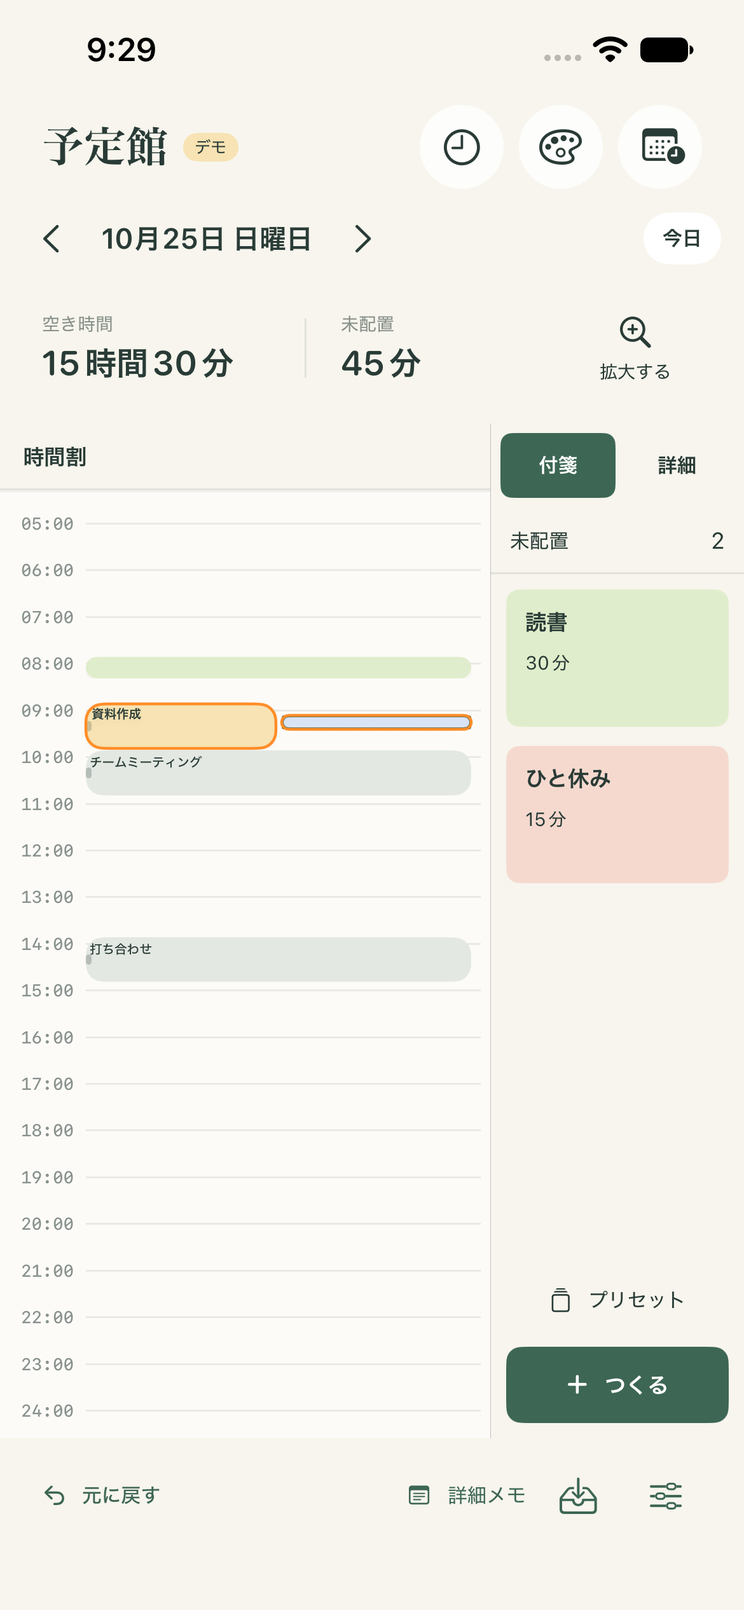
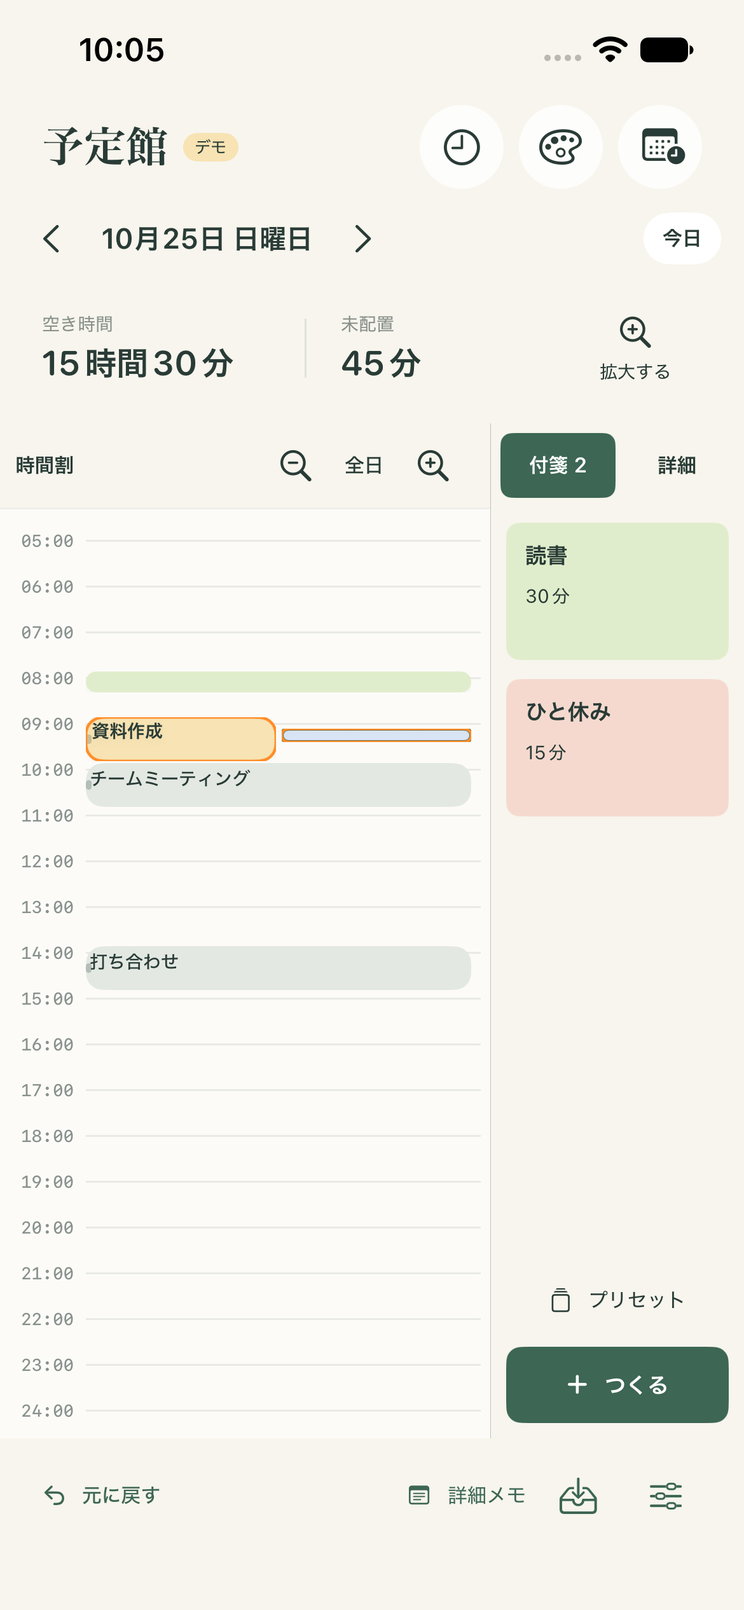
Add timeline zoom and keep short events within their time slots

diff --git a/ios/Yoteikan/PlannerView.swift b/ios/Yoteikan/PlannerView.swift
@@ -1,6 +1,11 @@
 import SwiftUI
 import UniformTypeIdentifiers
 
+private struct HourPositions: PreferenceKey {
+    static var defaultValue: [Int: CGFloat] = [:]
+    static func reduce(value: inout [Int: CGFloat], nextValue: () -> [Int: CGFloat]) { value.merge(nextValue(), uniquingKeysWith: { _, new in new }) }
+}
+
 struct PlannerView: View {
     @EnvironmentObject private var plans: PlanStore
     @EnvironmentObject private var calendar: CalendarStore
@@ -13,6 +18,11 @@ struct PlannerView: View {
     @State private var editing: Sticky?
     @State private var selected: UUID?
     @State private var overview = false
+    @State private var zoomLevel = 0
+    @State private var visibleHour: Int?
+    @State private var zoomAnchor = 8
+    @State private var viewportTop: CGFloat = 0
+    private let zoomSteps: [CGFloat] = [1, 2, 4, 8]
     @State private var dropActive = false
     @State private var moving: UUID?
     @State private var shift: CGFloat = 0
@@ -28,9 +38,14 @@ struct PlannerView: View {
     @State private var memoDrafts: [UUID: String] = [:]
     @FocusState private var memoFocused: Bool
     private var selectedTask: Sticky? { plans.today.first { $0.id == selected } }
-    private var scale: CGFloat { overview ? max(0.15, (viewportHeight - 32) / CGFloat(plans.hours.totalMinutes)) : 1.55 }
+    private var scale: CGFloat { overview ? max(0.15, (viewportHeight - 32) / CGFloat(plans.hours.totalMinutes)) : 1.55 * zoomSteps[zoomLevel] }
     private var fixed: [FixedEvent] {
         if plans.demo, dayKey(plans.date) == dayKey(Date()) {
+            #if DEBUG && targetEnvironment(simulator)
+            if ProcessInfo.processInfo.arguments.contains("--short-events-test") {
+                return [FixedEvent(id: "short1", title: "会議5分", start: 495, end: 500), FixedEvent(id: "short2", title: "連絡5分", start: 500, end: 505)]
+            }
+            #endif
             return [FixedEvent(id: "demo1", title: "チームミーティング", start: 600, end: 660), FixedEvent(id: "demo2", title: "打ち合わせ", start: 840, end: 900)]
         }
         return calendar.events
@@ -65,7 +80,7 @@ struct PlannerView: View {
                 ScrollView(.horizontal, showsIndicators: false) { HStack { ForEach(fixed.filter(\.allDay)) { event in Label(event.title, systemImage: "sun.max").font(.caption2).padding(7).background(.white.opacity(0.6), in: Capsule()) } }.padding(.horizontal, 20) }
             }
             HStack(spacing: 0) {
-                VStack(spacing: 0) { zoneTitle("時間割"); timeline }
+                VStack(spacing: 0) { zoomControls; timeline }
                     .accessibilityElement(children: .contain).accessibilityIdentifier("scheduleZone")
                 if wide && !sideShowsDetails {
                     Divider()
@@ -216,6 +231,25 @@ struct PlannerView: View {
     private func stat(_ title: String, _ value: String, compact: Bool) -> some View {
         VStack(alignment: .leading, spacing: compact ? 2 : 4) { Text(title).font(.system(size: compact ? 9 : 10)).foregroundStyle(ink.opacity(0.55)); Text(value).font(.system(size: compact ? 15 : 18, weight: .semibold, design: .rounded)) }.frame(maxWidth: .infinity, alignment: .leading).padding(.leading, title == "未配置" ? 18 : 0)
     }
+    private var zoomControls: some View {
+        HStack(spacing: 0) {
+            Text("時間割").font(.system(size: 11, weight: .semibold))
+            Spacer(minLength: 0)
+            Button { zoomAnchor = selectedTask?.start.map { $0 / 60 } ?? visibleHour ?? initialHour; zoomLevel -= 1 } label: {
+                Image(systemName: "minus.magnifyingglass").frame(width: 44, height: 44)
+            }.disabled(overview || zoomLevel == 0).accessibilityLabel("時間割を縮小").accessibilityIdentifier("zoomOut")
+            Text(overview ? "全日" : "\(Int(zoomSteps[zoomLevel]))倍")
+                .font(.system(size: 11, weight: .medium)).frame(width: 28)
+                .accessibilityIdentifier("zoomLevel")
+            Button { if overview { overview = false } else { zoomAnchor = selectedTask?.start.map { $0 / 60 } ?? visibleHour ?? initialHour; zoomLevel += 1 } } label: {
+                Image(systemName: "plus.magnifyingglass").frame(width: 44, height: 44)
+            }.disabled(!overview && zoomLevel == zoomSteps.count - 1).accessibilityLabel("時間割を拡大").accessibilityIdentifier("zoomIn")
+        }.padding(.horizontal, 8)
+    }
+    private func cardHeight(_ minutes: Int) -> CGFloat {
+        let slot = CGFloat(minutes) * scale
+        return max(0, slot - min(overview ? 1 : 4, slot * 0.25))
+    }
     private var timeline: some View {
         ScrollViewReader { reader in
             ScrollView(.vertical) {
@@ -223,14 +257,30 @@ struct PlannerView: View {
                     ZStack(alignment: .topLeading) {
                         VStack(spacing: 0) {
                         ForEach((plans.hours.start / 60)...(plans.hours.end / 60), id: \.self) { hour in
-                            HStack(alignment: .center, spacing: 6) { Text(String(format: "%02d:00", hour)).font(.system(size: 9, weight: .medium, design: .monospaced)).foregroundStyle(ink.opacity(0.55)).frame(width: 34, alignment: .trailing); Rectangle().fill(ink.opacity(0.09)).frame(height: 1) }.frame(height: 60 * scale, alignment: .top).id(hour)
+                            ZStack(alignment: .topLeading) {
+                                HStack(spacing: 6) { Text(String(format: "%02d:00", hour)).font(.system(size: 9, weight: .medium, design: .monospaced)).foregroundStyle(ink.opacity(0.55)).frame(width: 34, alignment: .trailing); Rectangle().fill(ink.opacity(0.09)).frame(height: 1) }
+                                if !overview && zoomLevel >= 2 && hour < plans.hours.end / 60 {
+                                    ForEach(1..<12) { step in
+                                        HStack(spacing: 6) {
+                                            Text(String(format: ":%02d", step * 5)).font(.system(size: 8, design: .monospaced)).frame(width: 34, alignment: .trailing)
+                                            Rectangle().frame(height: 0.5)
+                                        }.foregroundStyle(ink.opacity(0.22)).offset(y: CGFloat(step * 5) * scale)
+                                    }
+                                }
+                            }.frame(height: 60 * scale, alignment: .top).id("hour-\(hour)")
+                                .background { GeometryReader { proxy in Color.clear.preference(key: HourPositions.self, value: [hour: proxy.frame(in: .global).minY]) } }
                         }
                         }.contentShape(Rectangle()).simultaneousGesture(daySwipeGesture)
                         ForEach(visibleFixed) { event in
                             let start = max(plans.hours.start, event.start)
                             let slot = slots["fixed-" + event.id] ?? TimelineSlot(column: 0, columns: 1)
                             let width = (geometry.size.width - 42) / CGFloat(slot.columns)
-                            fixedCard(event).frame(width: width - 3, height: max(overview ? 3 : 20, CGFloat(min(event.end, plans.hours.end) - start) * scale - (overview ? 1 : 4))).offset(x: 40 + width * CGFloat(slot.column), y: CGFloat(start - plans.hours.start) * scale + 2)
+                            let height = cardHeight(min(event.end, plans.hours.end) - start)
+                            fixedCard(event, height: height).frame(width: width - 3, height: height).clipped()
+                                .accessibilityElement(children: .ignore)
+                                .accessibilityLabel("\(event.title)、\(clockText(event.start))から\(clockText(event.end))、カレンダーの固定予定")
+                                .accessibilityIdentifier("fixed-\(event.title)")
+                                .offset(x: 40 + width * CGFloat(slot.column), y: CGFloat(start - plans.hours.start) * scale + 2)
                         }
                         ForEach(placed) { task in
                             let visibleStart = max(task.start!, plans.hours.start)
@@ -239,14 +289,16 @@ struct PlannerView: View {
                             let slot = slots[task.id.uuidString] ?? TimelineSlot(column: 0, columns: 1)
                             let slotCount = slot.columns
                             let width = (geometry.size.width - 42) / CGFloat(slotCount)
-                            taskCard(task, compact: overview || slotCount > 1)
-                                .frame(width: width - 3, height: max(overview ? 3 : 24, CGFloat(visibleEnd - visibleStart) * scale - (overview ? 1 : 4) + (stretching == task.id ? stretch : 0)))
+                            let height = max(0, cardHeight(visibleEnd - visibleStart) + (stretching == task.id ? stretch : 0))
+                            taskCard(task, compact: overview || slotCount > 1, height: height)
+                                .frame(width: width - 3, height: height)
                                 .overlay { if collision { RoundedRectangle(cornerRadius: 9).stroke(.orange, lineWidth: 1.5).allowsHitTesting(false) } }
-                                .overlay(alignment: .bottom) { if !overview { resizeHandle(task) } }
+                                .overlay(alignment: .bottom) { if !overview && (height >= 54 || stretching == task.id) { resizeHandle(task) } }
                                 .contentShape(Rectangle())
                                 .overlay(alignment: .topTrailing) {
-                                    if selected == task.id && !overview { moveHandle(task).padding(3) }
+                                    if selected == task.id && !overview && height >= 32 { moveHandle(task).padding(3) }
                                 }
+                                .clipped()
                                 .overlay(alignment: .top) {
                                     if moving == task.id && !returningToInbox {
                                         let start = task.start! + PlannerMath.snap(Double(shift / scale))
@@ -276,41 +328,54 @@ struct PlannerView: View {
                     } isTargeted: { dropActive = $0 }
                     .background(dropActive ? accent.opacity(0.05) : Color.clear)
                 }.frame(height: CGFloat(plans.hours.end - plans.hours.start) * scale + 18).padding(.top, 12).padding(.horizontal, 5)
-            }.accessibilityIdentifier("timeline")
-                .task { await Task.yield(); reader.scrollTo(initialHour, anchor: .top) }
-                .onChange(of: overview) { _, value in reader.scrollTo(value ? plans.hours.start / 60 : initialHour, anchor: .top) }
-                .onChange(of: plans.date) { _, _ in reader.scrollTo(overview ? plans.hours.start / 60 : initialHour, anchor: .top) }
+            }.coordinateSpace(name: "timelineViewport").accessibilityIdentifier("timeline")
+                .onPreferenceChange(HourPositions.self) { positions in
+                    visibleHour = positions.filter { $0.value <= viewportTop + 16 }.max(by: { $0.value < $1.value })?.key ?? initialHour
+                }
+                .task { await Task.yield(); reader.scrollTo("hour-\(initialHour)", anchor: .top) }
+                .onChange(of: zoomLevel) { _, _ in
+                    Task { @MainActor in
+                        await Task.yield()
+                        reader.scrollTo("hour-\(zoomAnchor)", anchor: .top)
+                    }
+                }
+                .onChange(of: overview) { _, value in reader.scrollTo("hour-\(value ? plans.hours.start / 60 : initialHour)", anchor: .top) }
+                .onChange(of: plans.date) { _, _ in reader.scrollTo("hour-\(overview ? plans.hours.start / 60 : initialHour)", anchor: .top) }
                 .onChange(of: plans.hours) { _, _ in
                     selected = nil; moving = nil; stretching = nil; shift = 0; stretch = 0
-                    reader.scrollTo(overview ? plans.hours.start / 60 : initialHour, anchor: .top)
+                    reader.scrollTo("hour-\(overview ? plans.hours.start / 60 : initialHour)", anchor: .top)
                 }
         }
         .background(.white.opacity(0.62))
-        .background { GeometryReader { proxy in Color.clear.onAppear { viewportHeight = proxy.size.height }.onChange(of: proxy.size.height) { _, height in viewportHeight = height } } }
+        .background { GeometryReader { proxy in Color.clear.onAppear { viewportHeight = proxy.size.height; viewportTop = proxy.frame(in: .global).minY }.onChange(of: proxy.size) { _, size in viewportHeight = size.height; viewportTop = proxy.frame(in: .global).minY } } }
         .overlay(alignment: .top) { Rectangle().fill(ink.opacity(0.06)).frame(height: 1) }
     }
-    private func fixedCard(_ event: FixedEvent) -> some View {
+    private func fixedCard(_ event: FixedEvent, height: CGFloat) -> some View {
         VStack(alignment: .leading, spacing: overview ? 0 : 5) {
-            if overview { Text(event.title).font(.system(size: 7, weight: .medium)).lineLimit(1) }
+            if height < 44 {
+                if height >= 14 { Text(event.title).font(.system(size: 10, weight: .medium)).lineLimit(1) }
+            } else if overview { Text(event.title).font(.system(size: 7, weight: .medium)).lineLimit(1) }
             else { HStack { Image(systemName: "lock.fill").font(.system(size: 9)); Text("\(clockText(event.start)) – \(clockText(event.end))").font(.system(size: 10, weight: .medium)); Spacer(minLength: 0) }.foregroundStyle(ink.opacity(0.55))
             if !overview { Text(event.title).font(.system(size: 13, weight: .medium)).lineLimit(2) }
             Spacer(minLength: 0)
             }
-        }.padding(overview ? 2 : 10).frame(maxWidth: .infinity, maxHeight: .infinity, alignment: .topLeading).background(Color(red: 0.89, green: 0.91, blue: 0.89), in: RoundedRectangle(cornerRadius: 9)).overlay(alignment: .leading) { RoundedRectangle(cornerRadius: 2).fill(ink.opacity(0.25)).frame(width: 3).padding(.vertical, 9) }.clipped().accessibilityElement(children: .ignore).accessibilityLabel("\(event.title)、\(clockText(event.start))から\(clockText(event.end))、カレンダーの固定予定").accessibilityIdentifier("fixed-\(event.title)")
+        }.padding(height < 44 ? min(height / 2, 2) : 10).frame(maxWidth: .infinity, maxHeight: .infinity, alignment: .topLeading).background(Color(red: 0.89, green: 0.91, blue: 0.89), in: RoundedRectangle(cornerRadius: 9)).overlay(alignment: .leading) { RoundedRectangle(cornerRadius: 2).fill(ink.opacity(0.25)).frame(width: 3).padding(.vertical, 9) }.clipped()
     }
-    private func taskCard(_ task: Sticky, compact: Bool) -> some View {
+    private func taskCard(_ task: Sticky, compact: Bool, height: CGFloat) -> some View {
         let textColor = plans.paletteColor(for: task.tone).textColor
         let start = (task.start ?? 0) + (moving == task.id ? PlannerMath.snap(Double(shift / scale)) : 0)
         let duration = task.minutes + (stretching == task.id ? PlannerMath.snap(Double(stretch / scale)) : 0)
         return VStack(alignment: .leading, spacing: 4) {
-            if overview {
+            if height < 44 {
+                if height >= 14 { Text(task.title).font(.system(size: 10, weight: .semibold)).lineLimit(1) }
+            } else if overview {
                 if duration >= 45 { Text(task.title).font(.system(size: 7, weight: .semibold)).lineLimit(1) }
             } else {
             if !compact { Text("\(clockText(start)) – \(clockText(start + duration))").font(.system(size: 10, weight: .medium)).foregroundStyle(textColor.opacity(0.8)) }
             HStack(spacing: 4) { Text(task.title).font(.system(size: compact ? 10 : 12, weight: .semibold)).lineLimit(2); Spacer(minLength: 0); if compact { Text("\(duration)分").font(.system(size: 9)) } }.padding(.trailing, selected == task.id ? 29 : 0)
             Spacer(minLength: 0)
             }
-        }.padding(.horizontal, overview ? 3 : 7).padding(.top, overview ? 1 : (compact ? 5 : 7)).frame(maxWidth: .infinity, maxHeight: .infinity, alignment: .topLeading)
+        }.padding(.horizontal, overview ? 3 : 7).padding(.top, height < 44 ? 1 : (compact ? 5 : 7)).frame(maxWidth: .infinity, maxHeight: .infinity, alignment: .topLeading)
             .foregroundStyle(textColor)
             .background(plans.paletteColor(for: task.tone).color, in: RoundedRectangle(cornerRadius: 9))
             .overlay(alignment: .leading) { RoundedRectangle(cornerRadius: 2).fill(ink.opacity(0.22)).frame(width: 3).padding(.vertical, 9) }

diff --git a/docs/screenshots/index.html b/docs/screenshots/index.html
@@ -1,1 +1,1 @@
-<!doctype html><html lang="ja"><meta charset="utf-8"><meta name="viewport" content="width=device-width,initial-scale=1"><title>予定館・実機能確認</title><style>body{background:#f7f5ed;color:#293b35;font:15px system-ui;margin:32px}h1{font-size:24px}.grid{display:grid;grid-template-columns:repeat(auto-fit,minmax(240px,1fr));gap:28px}figure{margin:0}img{width:100%;max-width:390px;border-radius:24px;box-shadow:0 8px 32px #293b3520}figcaption{margin:12px 0 20px}p{line-height:1.8}</style><h1>予定館 / シミュレーター動作確認</h1><p>iPhone 17e・iOS 27。XCTestで実際に操作した画面です。デモ表記のある画面はサンプル予定、カレンダー画面はシミュレーターのEventKitに登録した検証用予定を使用しています。</p><div class="grid"><figure><a href="01-day-planner.png"><img src="01-day-planner.png" alt="01-day-planner"></a><figcaption>01-day-planner</figcaption></figure><figure><a href="02-presets.png"><img src="02-presets.png" alt="02-presets"></a><figcaption>02-presets</figcaption></figure><figure><a href="03-sticky-editor.png"><img src="03-sticky-editor.png" alt="03-sticky-editor"></a><figcaption>03-sticky-editor</figcaption></figure><figure><a href="04-overlap-after-drag.png"><img src="04-overlap-after-drag.png" alt="04-overlap-after-drag"></a><figcaption>04-overlap-after-drag</figcaption></figure><figure><a href="05-resize-overlap.png"><img src="05-resize-overlap.png" alt="05-resize-overlap"></a><figcaption>05-resize-overlap</figcaption></figure><figure><a href="06-day-overview.png"><img src="06-day-overview.png" alt="06-day-overview"></a><figcaption>06-day-overview</figcaption></figure><figure><a href="07-calendar-settings.png"><img src="07-calendar-settings.png" alt="07-calendar-settings"></a><figcaption>07-calendar-settings</figcaption></figure><figure><a href="08-real-calendar-events.png"><img src="08-real-calendar-events.png" alt="08-real-calendar-events"></a><figcaption>08-real-calendar-events</figcaption></figure><figure><a href="09-start-time-drag.png"><img src="09-start-time-drag.png" alt="09-start-time-drag"></a><figcaption>09-start-time-drag</figcaption></figure><figure><a href="10-swipe-next-day.png"><img src="10-swipe-next-day.png" alt="10-swipe-next-day"></a><figcaption>10-swipe-next-day</figcaption></figure><figure><a href="11-color-settings.png"><img src="11-color-settings.png" alt="11-color-settings"></a><figcaption>11-color-settings</figcaption></figure><figure><a href="12-named-color-picker.png"><img src="12-named-color-picker.png" alt="12-named-color-picker"></a><figcaption>12-named-color-picker</figcaption></figure><figure><a href="13-custom-colors.png"><img src="13-custom-colors.png" alt="13-custom-colors"></a><figcaption>13-custom-colors</figcaption></figure><figure><a href="14-expanded-color-picker.png"><img src="14-expanded-color-picker.png" alt="14-expanded-color-picker"></a><figcaption>14-expanded-color-picker</figcaption></figure><figure><a href="15-five-am-plan.png"><img src="15-five-am-plan.png" alt="15-five-am-plan"></a><figcaption>15-five-am-plan</figcaption></figure><figure><a href="16-planning-hours-settings.png"><img src="16-planning-hours-settings.png" alt="16-planning-hours-settings"></a><figcaption>16-planning-hours-settings</figcaption></figure><figure><a href="17-custom-hours-and-outside-sticky.png"><img src="17-custom-hours-and-outside-sticky.png" alt="17-custom-hours-and-outside-sticky"></a><figcaption>17-custom-hours-and-outside-sticky</figcaption></figure><figure><a href="18-two-zone-planner.png"><img src="18-two-zone-planner.png" alt="18-two-zone-planner"></a><figcaption>18-two-zone-planner</figcaption></figure><figure><a href="19-detail-memo.png"><img src="19-detail-memo.png" alt="19-detail-memo"></a><figcaption>19-detail-memo</figcaption></figure><figure><a href="20-three-zone-planner.png"><img src="20-three-zone-planner.png" alt="20-three-zone-planner"></a><figcaption>20-three-zone-planner</figcaption></figure><figure><a href="21-switch-to-schedule-details.png"><img src="21-switch-to-schedule-details.png" alt="21-switch-to-schedule-details"></a><figcaption>21-switch-to-schedule-details</figcaption></figure></div></html>
+<!doctype html><html lang="ja"><meta charset="utf-8"><meta name="viewport" content="width=device-width,initial-scale=1"><title>予定館・実機能確認</title><style>body{background:#f7f5ed;color:#293b35;font:15px system-ui;margin:32px}h1{font-size:24px}.grid{display:grid;grid-template-columns:repeat(auto-fit,minmax(240px,1fr));gap:28px}figure{margin:0}img{width:100%;max-width:390px;border-radius:24px;box-shadow:0 8px 32px #293b3520}figcaption{margin:12px 0 20px}p{line-height:1.8}</style><h1>予定館 / シミュレーター動作確認</h1><p>iPhone 17e・iOS 27。XCTestで実際に操作した画面です。デモ表記のある画面はサンプル予定、カレンダー画面はシミュレーターのEventKitに登録した検証用予定を使用しています。</p><div class="grid"><figure><a href="01-day-planner.png"><img src="01-day-planner.png" alt="01-day-planner"></a><figcaption>01-day-planner</figcaption></figure><figure><a href="02-presets.png"><img src="02-presets.png" alt="02-presets"></a><figcaption>02-presets</figcaption></figure><figure><a href="03-sticky-editor.png"><img src="03-sticky-editor.png" alt="03-sticky-editor"></a><figcaption>03-sticky-editor</figcaption></figure><figure><a href="04-overlap-after-drag.png"><img src="04-overlap-after-drag.png" alt="04-overlap-after-drag"></a><figcaption>04-overlap-after-drag</figcaption></figure><figure><a href="05-resize-overlap.png"><img src="05-resize-overlap.png" alt="05-resize-overlap"></a><figcaption>05-resize-overlap</figcaption></figure><figure><a href="06-day-overview.png"><img src="06-day-overview.png" alt="06-day-overview"></a><figcaption>06-day-overview</figcaption></figure><figure><a href="07-calendar-settings.png"><img src="07-calendar-settings.png" alt="07-calendar-settings"></a><figcaption>07-calendar-settings</figcaption></figure><figure><a href="08-real-calendar-events.png"><img src="08-real-calendar-events.png" alt="08-real-calendar-events"></a><figcaption>08-real-calendar-events</figcaption></figure><figure><a href="09-start-time-drag.png"><img src="09-start-time-drag.png" alt="09-start-time-drag"></a><figcaption>09-start-time-drag</figcaption></figure><figure><a href="10-swipe-next-day.png"><img src="10-swipe-next-day.png" alt="10-swipe-next-day"></a><figcaption>10-swipe-next-day</figcaption></figure><figure><a href="11-color-settings.png"><img src="11-color-settings.png" alt="11-color-settings"></a><figcaption>11-color-settings</figcaption></figure><figure><a href="12-named-color-picker.png"><img src="12-named-color-picker.png" alt="12-named-color-picker"></a><figcaption>12-named-color-picker</figcaption></figure><figure><a href="13-custom-colors.png"><img src="13-custom-colors.png" alt="13-custom-colors"></a><figcaption>13-custom-colors</figcaption></figure><figure><a href="14-expanded-color-picker.png"><img src="14-expanded-color-picker.png" alt="14-expanded-color-picker"></a><figcaption>14-expanded-color-picker</figcaption></figure><figure><a href="15-five-am-plan.png"><img src="15-five-am-plan.png" alt="15-five-am-plan"></a><figcaption>15-five-am-plan</figcaption></figure><figure><a href="16-planning-hours-settings.png"><img src="16-planning-hours-settings.png" alt="16-planning-hours-settings"></a><figcaption>16-planning-hours-settings</figcaption></figure><figure><a href="17-custom-hours-and-outside-sticky.png"><img src="17-custom-hours-and-outside-sticky.png" alt="17-custom-hours-and-outside-sticky"></a><figcaption>17-custom-hours-and-outside-sticky</figcaption></figure><figure><a href="18-two-zone-planner.png"><img src="18-two-zone-planner.png" alt="18-two-zone-planner"></a><figcaption>18-two-zone-planner</figcaption></figure><figure><a href="19-detail-memo.png"><img src="19-detail-memo.png" alt="19-detail-memo"></a><figcaption>19-detail-memo</figcaption></figure><figure><a href="20-three-zone-planner.png"><img src="20-three-zone-planner.png" alt="20-three-zone-planner"></a><figcaption>20-three-zone-planner</figcaption></figure><figure><a href="21-switch-to-schedule-details.png"><img src="21-switch-to-schedule-details.png" alt="21-switch-to-schedule-details"></a><figcaption>21-switch-to-schedule-details</figcaption></figure><figure><a href="22-five-minute-zoom.png"><img src="22-five-minute-zoom.png" alt="22-five-minute-zoom"></a><figcaption>22-five-minute-zoom</figcaption></figure><figure><a href="23-five-minute-standard.png"><img src="23-five-minute-standard.png" alt="23-five-minute-standard"></a><figcaption>23-five-minute-standard</figcaption></figure></div></html>

diff --git a/ios/YoteikanUITests/YoteikanUITests.swift b/ios/YoteikanUITests/YoteikanUITests.swift
@@ -487,4 +487,86 @@ final class YoteikanUITests: XCTestCase {
         XCTAssertEqual(app.staticTexts["selectedDate"].label, date)
         XCTAssertFalse(app.staticTexts["08:00"].isHittable)
     }
+    func test20ZoomShortEventsWithoutVisualOverlap() {
+        launch(["--demo", "--short-events-test"])
+        let first = app.otherElements["task-読書5分"]
+        let second = app.otherElements["task-休憩5分"]
+        let third = app.otherElements["task-確認5分"]
+        let meeting = app.otherElements["fixed-会議5分"]
+        let call = app.otherElements["fixed-連絡5分"]
+        func checkFrames() {
+            for (a, b) in [(first, second), (second, third), (third, meeting), (meeting, call)] {
+                XCTAssertLessThan(a.frame.maxY, b.frame.minY, "\(a.identifier) overlaps \(b.identifier)")
+            }
+            XCTAssertEqual(first.value as? String, "08:00|5")
+            XCTAssertEqual(second.value as? String, "08:05|5")
+            XCTAssertEqual(third.value as? String, "08:10|5")
+        }
+        XCTAssertTrue(first.waitForExistence(timeout: 3))
+        checkFrames()
+        XCTAssertFalse(app.otherElements["resize-読書5分"].exists)
+        let baseHeight = first.frame.height
+        for label in ["2倍", "4倍", "8倍"] {
+            app.buttons["zoomIn"].tap()
+            XCTAssertEqual(app.staticTexts["zoomLevel"].label, label)
+            checkFrames()
+        }
+        XCTAssertGreaterThan(first.frame.height, baseHeight * 7)
+        XCTAssertGreaterThan(first.frame.height, 54)
+        XCTAssertFalse(app.buttons["zoomIn"].isEnabled)
+        XCTAssertTrue(first.isHittable)
+        XCTAssertTrue(call.isHittable)
+        shot("22-five-minute-zoom")
+        first.tap()
+        XCTAssertTrue(app.otherElements["move-読書5分"].exists)
+        let handle = app.otherElements["resize-読書5分"]
+        XCTAssertTrue(handle.exists)
+        let point = handle.coordinate(withNormalizedOffset: CGVector(dx: 0.5, dy: 0.5))
+        // Two adjacent five-minute slots provide the actual screen distance.
+        let fiveMinutes = second.frame.minY - first.frame.minY
+        point.press(forDuration: 0.15, thenDragTo: point.withOffset(CGVector(dx: 0, dy: fiveMinutes)))
+        XCTAssertEqual(first.value as? String, "08:00|10")
+        app.buttons["undoButton"].tap()
+        XCTAssertEqual(first.value as? String, "08:00|5")
+        let move = app.otherElements["move-読書5分"].coordinate(withNormalizedOffset: CGVector(dx: 0.5, dy: 0.5))
+        move.press(forDuration: 0.05, thenDragTo: move.withOffset(CGVector(dx: 0, dy: fiveMinutes)))
+        XCTAssertEqual(first.value as? String, "08:05|5")
+        XCTAssertEqual(second.value as? String, "08:05|5")
+        app.buttons["undoButton"].tap()
+        XCTAssertEqual(first.value as? String, "08:00|5")
+        app.buttons["zoomToggle"].tap()
+        XCTAssertEqual(app.staticTexts["zoomLevel"].label, "全日")
+        checkFrames()
+        app.buttons["zoomToggle"].tap()
+        XCTAssertEqual(app.staticTexts["zoomLevel"].label, "8倍")
+        checkFrames()
+        for label in ["4倍", "2倍", "1倍"] {
+            app.buttons["zoomOut"].tap()
+            XCTAssertEqual(app.staticTexts["zoomLevel"].label, label)
+            checkFrames()
+        }
+        XCTAssertFalse(app.buttons["zoomOut"].isEnabled)
+        shot("23-five-minute-standard")
+    }
+    func test21ZoomKeepsVisibleHourAndZoneLayout() {
+        launch()
+        let timeline = app.scrollViews["timeline"]
+        let axis = timeline.coordinate(withNormalizedOffset: CGVector(dx: 0.08, dy: 0.8))
+        axis.press(forDuration: 0.01, thenDragTo: axis.withOffset(CGVector(dx: 0, dy: -210)))
+        let visible = (8...23).map { app.staticTexts[String(format: "%02d:00", $0)] }
+            .first { $0.isHittable && $0.frame.minY >= timeline.frame.minY && $0.frame.minY < timeline.frame.maxY }
+        XCTAssertNotNil(visible)
+        let hour = visible!.label
+        app.buttons["zoomIn"].tap()
+        XCTAssertTrue(app.staticTexts[hour].isHittable)
+        XCTAssertEqual(app.staticTexts["zoomLevel"].label, "2倍")
+        XCUIDevice.shared.orientation = .landscapeLeft
+        Thread.sleep(forTimeInterval: 1)
+        XCTAssertTrue(app.otherElements["memoZone"].exists)
+        XCTAssertEqual(app.staticTexts["zoomLevel"].label, "2倍")
+        let schedule = app.otherElements["scheduleZone"]
+        let memo = app.otherElements["memoZone"]
+        XCTAssertLessThanOrEqual(schedule.frame.maxX, memo.frame.minX + 1)
+        XCUIDevice.shared.orientation = .portrait
+    }
 }

diff --git a/ios/Yoteikan/Models.swift b/ios/Yoteikan/Models.swift
@@ -182,6 +182,15 @@ let tones: [Color] = [Color(red: 0.88, green: 0.93, blue: 0.80), Color(red: 0.97
                 Sticky(title: "読書", minutes: 30, tone: 0, day: day),
                 Sticky(title: "ひと休み", minutes: 15, tone: 3, day: day)
             ]
+            #if DEBUG && targetEnvironment(simulator)
+            if ProcessInfo.processInfo.arguments.contains("--short-events-test") {
+                sample.stickies = [
+                    Sticky(title: "読書5分", minutes: 5, tone: 0, day: day, start: 480),
+                    Sticky(title: "休憩5分", minutes: 5, tone: 1, day: day, start: 485),
+                    Sticky(title: "確認5分", minutes: 5, tone: 2, day: day, start: 490)
+                ]
+            }
+            #endif
             plan = sample
         } else {
             plan = defaults.data(forKey: key).flatMap { try? JSONDecoder().decode(SavedPlan.self, from: $0) } ?? SavedPlan()

diff --git a/README.md b/README.md
@@ -15,7 +15,7 @@
 - 未配置への戻し、直前の変更を元に戻す、端末内への保存。
 - よく使う付箋をプリセットに保存し、今日の計画へ追加。
 - iPhoneのカレンダーを読み込み、表示するカレンダーを選択。
-- 左右スワイプで前日・翌日へ移動。1日全体と拡大表示の切り替え。
+- 左右スワイプで前日・翌日へ移動。全日表示と1・2・4・8倍の拡大表示を切り替え。
 
 ## 起動する
 
@@ -40,6 +40,8 @@ macOSと、iOS 17以降をビルドできるXcodeが必要です。
 
 日付欄やタイムラインの余白を左へスワイプすると翌日、右へスワイプすると前日へ移動します。「今日」で当日に戻れます。
 
+時間割の上にある＋／−で1・2・4・8倍に拡大・縮小できます。4倍以上では5分刻みの目盛りを表示し、8倍では5分の付箋もつまみで移動・伸縮できます。小さい表示では付箋を時間枠内に収め、入りきらない文字やつまみを省略します。「1日を見る」から戻ると直前の拡大率に戻ります。拡大率はアプリを起動し直すと1倍になります。
+
 右上のパレットで、色と名前を追加・編集できます。色はカラーピッカーまたは6桁のカラーコードで指定します。削除するときは付け替え先を選び、保存すると全日付の付箋・プリセットに反映されます。最後の1色は削除できません。キャンセルで編集を破棄し、「元に戻す」で保存前に戻せます。付箋の内容や時間は保持されます。
 
 右上の時計ボタンから、計画の開始・終了時刻を選べます。初期値は5:00〜24:00で、0:00〜24:00の中から1時間単位で設定し、全日共通で保存します。付箋の移動は5分刻みです。範囲から外れた付箋は元の時刻を保って右のゾーンに「時間外」と表示されます。カレンダーの固定予定は、このアプリから変更できません。
@@ -52,8 +54,8 @@ macOSと、iOS 17以降をビルドできるXcodeが必要です。
 | [アプリ設計](docs/design.md) | 仕様、データモデル、画面構成、カレンダー権限、初期版の範囲 |
 | [開発・検証手順](docs/development.md) | 技術構成、ビルド・テスト、Goによるスクショ出力、テスト用の起動引数 |
 | [動作確認](docs/verification.md) | 確認した操作、検証環境、実機で未確認の項目 |
-| [スクリーンショット21枚](docs/screenshots/README.md) | 実際に操作して取得した画面 |
-| [テスト結果の抜粋](docs/test-results.txt) | 付箋・詳細の切り替えに対応した全36件の検証記録 |
+| [スクリーンショット23枚](docs/screenshots/README.md) | 実際に操作して取得した画面 |
+| [テスト結果の抜粋](docs/test-results.txt) | 拡大率・5分予定に対応した全38件の検証記録 |
 
 ## 技術構成
 

diff --git a/docs/verification.md b/docs/verification.md
@@ -2,7 +2,18 @@
 
 2026年10月25日。iPhone 17eシミュレーター / iOS 27.0で確認しました。
 
-付箋・詳細の切り替えに対応し、ユニットテスト17件・UI操作テスト19件の計36件を検証しました。スクリーンショット抽出・一覧作成ツールはGoで実装しています。Pythonへの依存はありません。
+拡大率・短時間予定に対応し、ユニットテスト17件・UI操作テスト21件の計38件の成功を確認しました（追加・再実行を含む）。スクリーンショット抽出・一覧作成ツールはGoで実装しています。Pythonへの依存はありません。
+
+## 時間割の拡大率と5分予定
+
+- 時間割の＋／−で1・2・4・8倍に変更。上下限でボタンを無効化。
+- 連続する5分の付箋3枚と固定予定2件を用意し、各倍率と全日表示で枠の非重複を確認。
+- 8倍で5分予定の移動・伸縮とUndoを確認。ほかの予定の時刻・所要時間は保持。
+- 全日表示から直前の8倍へ戻り、縮小後も内容と時刻を保持。
+- スクロールした時間帯で拡大しても同じ時間帯が表示され、横画面でも倍率と3ゾーンを保持。
+- 拡大・標準表示のスクリーンショットを目視確認。拡大画面では5件すべてが画面内に表示されることも検証。
+
+全体実行で35件成功。短い付箋の移動つまみ条件、全日表示の固定予定の領域、拡大時の表示位置を調整しました。移動・伸縮・カレンダー・右への戻しを再確認し、最後に5分予定と表示位置・横画面の2件が成功しました。詳細は[test-results.txt](test-results.txt)に記録しています。実機確認は未実施です。
 
 ## 付箋領域を予定の詳細に切り替え
 
@@ -12,7 +23,7 @@
 - 詳細の編集ボタンから予定を編集し、再配置・右への戻しも確認。
 - 詳細の表示中に右へドロップすると、未配置へ戻して付箋一覧を再表示。
 
-全体実行で35件成功。右へ戻す新規テストが伸縮つまみに当たっていたため、移動つまみを使う操作へ修正しました。見出し整理後の切り替え・メモ・縦横表示・右への戻しを4件の再実行で確認しました。
+切り替え・メモ・縦横表示・右への戻しは、今回の全体確認と関連操作の再確認に含めています。
 
 ## 時間割・詳細メモ・付箋のゾーン構成
 

diff --git a/docs/design.md b/docs/design.md
@@ -12,6 +12,10 @@
 
 ## 画面構成
 
+時間割の＋／−で1・2・4・8倍を選ぶ。1倍は1分あたり1.55ポイント、8倍では5分枠が62ポイントとなる。4倍以上では5分ごとの補助目盛りを表示する。全日表示から戻ると最後の拡大率を復元する。拡大率変更時は選択した予定、選択がなければ現在表示中の時間帯を基準にする（時間単位）。拡大率は画面内の状態として保持し、再起動時は1倍。
+
+予定の描画高さは時間枠から間隔を差し引いた値とし、短い予定にも最低高さを強制しない。文字・枠線・操作つまみは枠内に収める。44ポイント未満では1行のタイトル、14ポイント未満では色のみとし、縮小時の内容は選択・詳細で確認できる。伸縮つまみは高さ54ポイント以上、選択中の移動つまみは32ポイント以上で表示する。伸縮の途中で小さくなった場合は、指を離すまで操作を継続する。実際に時刻が重なる予定は従来どおり並列に配置する。カレンダーの固定予定も同じ高さの規則に従う。
+
 | 領域 | 内容 |
 |---|---|
 | ヘッダー | 計画の時間帯、色の名前設定、カレンダー設定、日付切り替え、今日へ戻る |

diff --git a/docs/development.md b/docs/development.md
@@ -80,6 +80,7 @@ index.htmlはローカルのブラウザーで開く。GitHubでの閲覧には[
 | --demo | デモ表示付きのサンプル計画を読み込み、付箋・プリセットの変更は保存しない。通常起動の計画は保持 |
 | --reset-test-data | 付箋・プリセットの保存データを初期化。カレンダーの選択は保持 |
 | --calendar-test | Debugのシミュレーター限定で、許可後に検証用カレンダーと予定を準備 |
+| --short-events-test | --demoと併用し、Debugのシミュレーター限定で8:00から5分の付箋3件・固定予定2件を連続表示。通常データは変更しない |
 
 ```sh
 xcrun simctl launch --terminate-running-process \
